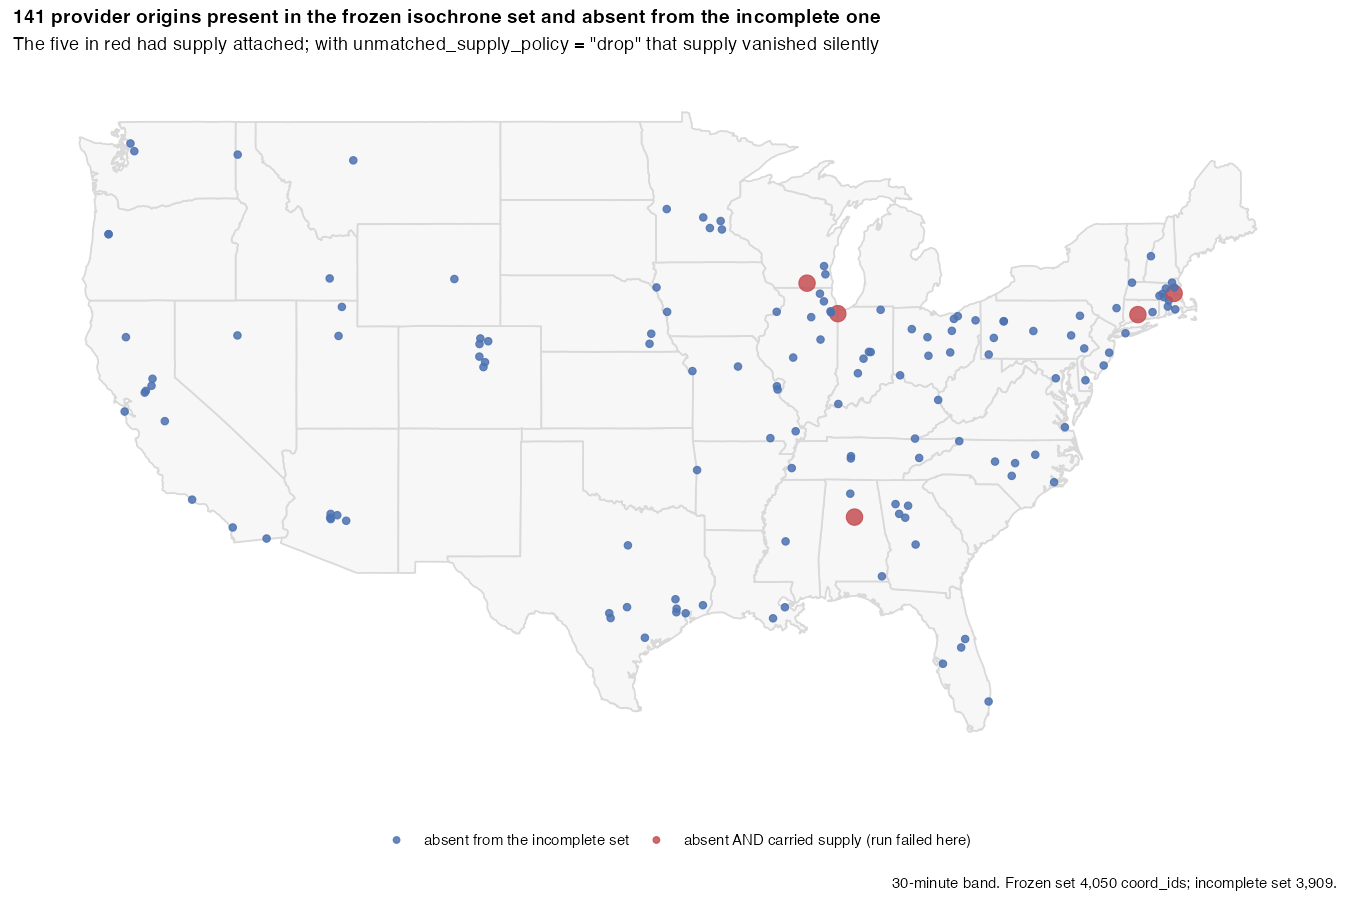
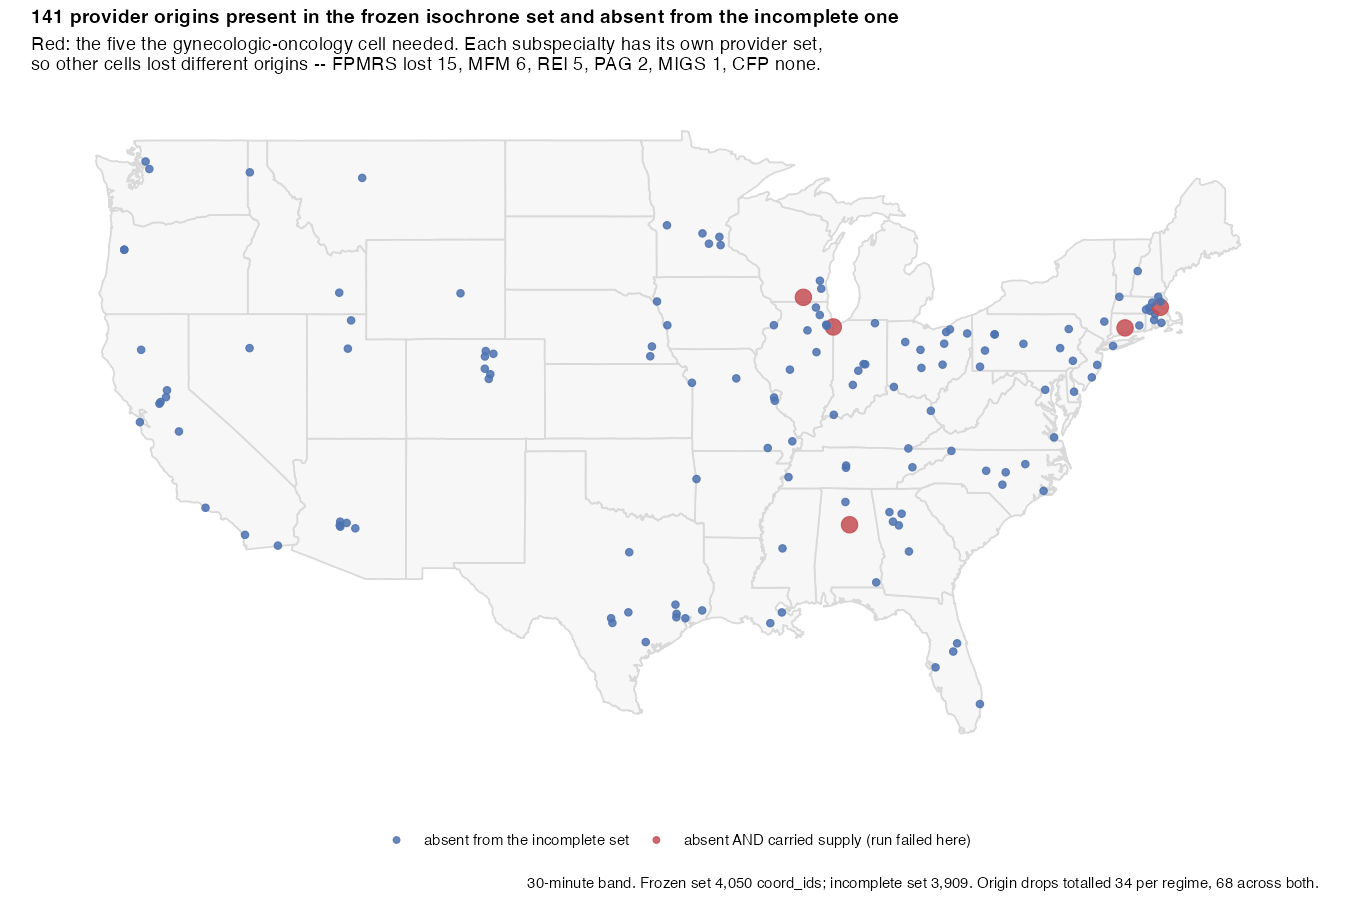
fix(docs): the 0.786% and the five origins are one cell, not the whole run
Correcting text I wrote in 099aa79. The README read as though five origins
carried supply and the run as a whole landed 0.786% low. Both figures are the
gynecologic-oncology cell specifically -- they come from the error message that
cell raised when it failed first, and I generalised them without checking.

Each subspecialty has its own provider set, so origin drops are per-cell rather
than a partition of one shared list:

  FPMRS 15   MFM 6   GO 5   REI 5   PAG 2   MIGS 1   CFP 0

34 per regime, 68 across both, over 12 of 14 cells. Verified against the
preserved contaminated artifact rather than restated.

Also added the direction that makes the C5 swap legible: relative shortfall was
largest where the provider set was smallest -- PAG 3.54% and FPMRS 2.17% against
the corrected value, against GO's 0.79%. PAG losing 2 of 95 moves it far more
than MIGS losing 1 of 326, which is why they exchanged rank. Convention stated
explicitly because dividing by the contaminated value instead gives PAG 3.67%
and answers a different question.

The figure carried the same error in its subtitle, so it is regenerated rather
than left to contradict the corrected prose.

Caught by the session that owns the manuscript chain, checking my numbers
against its own.

diff --git a/README.md b/README.md
@@ -102,11 +102,17 @@ frozen set carries **4,050**:
 
 ![Provider origins missing from the incomplete isochrone set](docs/figures/isochrone_coverage_gap.png)
 
-The 141 missing origins are nationally distributed, not a regional artifact. Five of them
-had supply attached, and with `unmatched_supply_policy = "drop"` that supply silently
-vanished — 7 of 890 units, 0.787%, which put the run 0.786% below the frozen analysis
-while reporting success. The committed 2020 artifact had dropped supply in **12 of 14
-cells**.
+The 141 missing origins are nationally distributed, not a regional artifact. Which of them
+mattered depended on the cell: each subspecialty has its own provider set, so the drops are
+per-cell rather than a partition of one shared list. The five marked red are the ones the
+gynecologic-oncology cell needed — 7 of its 890 supply units, 0.787%, which with
+`unmatched_supply_policy = "drop"` vanished silently and put **that cell** 0.786% below the
+frozen value while the run reported success. FPMRS lost 15 origins, MFM 6, REI 5, PAG 2,
+MIGS 1, CFP none: **12 of 14 cells**, 34 origin-drops per regime and 68 across both.
+
+Relative shortfall was largest where the provider set was smallest — PAG 3.54% and FPMRS
+2.17% against the corrected value, against GO's 0.79% — which is why PAG and MIGS exchanged
+rank once the supply was restored.
 
 Nine isochrone directories existed across the analysis machine and an attached drive.
 **None** of them matched the frozen hashes; two were byte-identical to each other and
